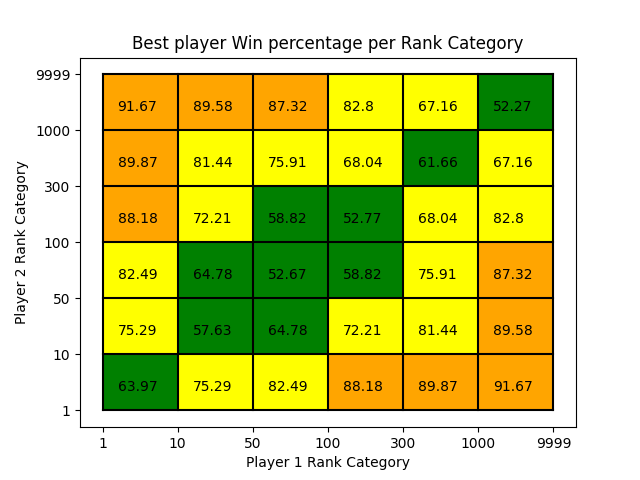
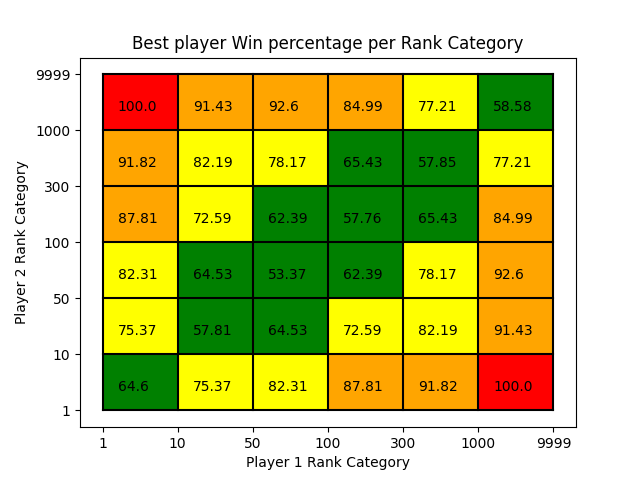
enh example with challengers data

diff --git a/examples/data/data_loading.py b/examples/data/data_loading.py
@@ -20,7 +20,7 @@ data_df = matches_data_loader(
     get_match_statistics=True,
     get_reversed_match_data=True,
     include_davis_cup=True,
-    match_type=["main_atp", "futures", "qualifying_challengers"],
+    match_type=["main_atp", "qualifying_challengers"],
 )
 
 print(data_df.head())
